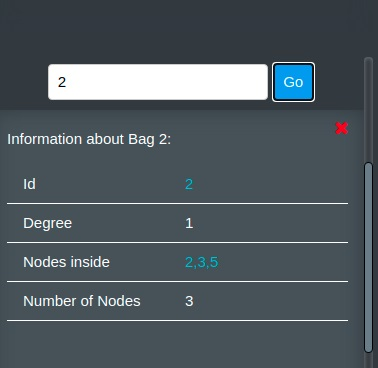
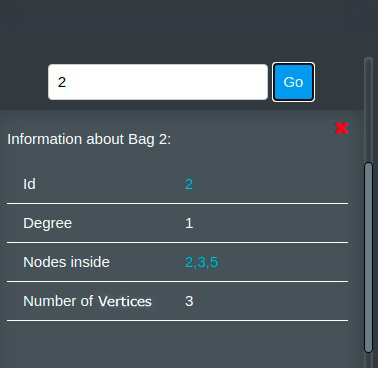
rechtschreibung

diff --git a/TreewidthVisualization/public/index.html b/TreewidthVisualization/public/index.html
@@ -175,7 +175,7 @@
                           <th></th>
                         </tr>
                         <tr>
-                            <td>Number of Vertice</td>
+                            <td>Number of Vertices</td>
                             <td>undefined</td>
                           </tr>
                         <tr>
@@ -183,11 +183,11 @@
                           <td>undefined</td>
                         </tr>
                         <tr>
-                            <td>Max Degree Vertice </td>
+                            <td>Max Degree Vertex </td>
                             <td>undefined</td>
                         </tr>
                         <tr>
-                            <td>Min Degree Vertice </td>
+                            <td>Min Degree Vertex </td>
                             <td>undefined</td>
                         </tr>
                         <tr>
@@ -201,7 +201,7 @@
                       </table>
                 </div>
                 <div class="line-s"></div>
-                <div data-wenk="Enter a displayed vertice" data-wenk-pos="top">
+                <div data-wenk="Enter a displayed vertex" data-wenk-pos="top">
                 <span class="example " style="padding-bottom:10px; " >
                    
                         <input id="graph-search" type="text" class="w3-input w3-round-medium w3-border " placeholder="Search.. ">
@@ -280,7 +280,7 @@
                             <td>undefined</td>
                           </tr>
                         <tr>
-                            <td>Number of different Nodes</td>
+                            <td>Number of different Vertices</td>
                             <td>undefined</td>
                           </tr>
                         <tr>
@@ -300,7 +300,7 @@
                             <td>undefined</td>
                         </tr>
                         <tr>
-                            <td>Single Nodes</td>
+                            <td>Single Vertices</td>
                             <td>undefined</td>
                         </tr>
                         <tr>
@@ -320,7 +320,7 @@
                 </div>
           
                 <div class="line-s"></div>
-                <div data-wenk="Enter a displayed node or bag number" data-wenk-pos="top">
+                <div data-wenk="Enter a displayed vertex or bag number" data-wenk-pos="top">
                     <span class="example"  style="padding-bottom:10px; " >
                     
                             <input id="tree-search" type="text" class="w3-input w3-round-medium w3-border " placeholder="Search.. ">
@@ -400,7 +400,7 @@
                 <span class="button-ico" style=" position: absolute; right:0;  bottom: 2.5em; margin-right: 15px; padding: 0;" >
                     <span id="recastOptions" style="display: none;" >
                         <button class="w3-button w3-round w3-blue" onclick="CytoscapeButtons.simpleNodeResetTreeLayout()">
-                            Nodes in Bag
+                            Vertices in Bag
                          </button>
                          <button class="w3-button w3-round w3-blue" onclick="CytoscapeButtons.fullResetTreeLayout()">
                             Recast Layout

diff --git a/TreewidthVisualization/public/javaScript/systemFunctions/accordionDropdown.js b/TreewidthVisualization/public/javaScript/systemFunctions/accordionDropdown.js
@@ -127,8 +127,8 @@ function setTreeProperties() {
     cr.endBatch();
 
     let treewidth = minBag.length;
-    bigBag = 'Id: '+ bigBagId + '</br> Nodes: ' + bigBag;
-    minBag = 'Id: '+ minBagId + '</br> Nodes:' + minBag;
+    bigBag = 'Id: '+ bigBagId + '</br> Vertices: ' + bigBag;
+    minBag = 'Id: '+ minBagId + '</br> Vertices:' + minBag;
     let singleNodes = cr.nodes('.tree').filter(function(ele, i, eles){
         return ele.neighborhood('node').length === 0; //return all nodes that have no neighboor
     });
@@ -144,8 +144,8 @@ function setTreeProperties() {
     rows[4].cells[1].innerHTML = nrVertices; //number vertice
     rows[5].cells[1].innerHTML = bigBag;
     rows[6].cells[1].innerHTML = minBag;
-    rows[7].cells[1].innerHTML = 'Degree: '+ maxDeg.degree + ' </br> Node: '+maxDeg.text +'</br> Id: '+ maxDeg.id;
-    rows[8].cells[1].innerHTML = 'Degree: '+ minDeg.degree + ' </br> Node: '+minDeg.text +'</br> Id: '+ minDeg.id;
+    rows[7].cells[1].innerHTML = 'Degree: '+ maxDeg.degree + ' </br> Vertices: '+maxDeg.text +'</br> Id: '+ maxDeg.id;//TODO
+    rows[8].cells[1].innerHTML = 'Degree: '+ minDeg.degree + ' </br> Vertices: '+minDeg.text +'</br> Id: '+ minDeg.id;//TODO
     rows[9].cells[1].innerHTML ='';
     rows[10].cells[1].innerHTML = treeClock;
     rows[11].cells[1].innerHTML = treeLayoutClock;
@@ -202,8 +202,8 @@ function setGraphProperties() {
     let rows = $('#graphProperties')[0].rows;
     rows[1].cells[1].innerHTML = cy.nodes().length; //number vertice
     rows[2].cells[1].innerHTML = cy.edges().length; //number edges
-    rows[3].cells[1].innerHTML = 'Degree: '+ maxDeg.degree + ' </br> Node: '+maxDeg.text +'</br> Id: '+ maxDeg.id;
-    rows[4].cells[1].innerHTML = 'Degree: '+ minDeg.degree + ' </br> Node: '+minDeg.text +'</br> Id: '+ minDeg.id;
+    rows[3].cells[1].innerHTML = 'Degree: '+ maxDeg.degree + ' </br> Vertex: '+maxDeg.text +'</br> Id: '+ maxDeg.id;
+    rows[4].cells[1].innerHTML = 'Degree: '+ minDeg.degree + ' </br> Vertex: '+minDeg.text +'</br> Id: '+ minDeg.id;
     rows[5].cells[1].innerHTML = graphClock;
     rows[6].cells[1].innerHTML = graphLayoutClock;
 }
@@ -221,7 +221,7 @@ function setLayoutTimeGraph(){
  * Creates dynamically the legend of nodes and egdes from the tree.
  */
 function setTreeLegend() {
-    createTableTree('node', 'List of Nodes');
+    createTableTree('node', 'List of Vertices');
     createTableTree('edge', 'List of Edges');
 }
 
@@ -455,7 +455,7 @@ function setBagTable(){
     headTable.innerHTML = 'Size';
     row.appendChild(headTable);
     headTable = document.createElement('th');
-    headTable.innerHTML = 'Nodes Inside';
+    headTable.innerHTML = 'Vertices Inside';
     row.appendChild(headTable);
 
     table.appendChild(row);

diff --git a/TreewidthVisualization/public/javaScript/systemFunctions/search.js b/TreewidthVisualization/public/javaScript/systemFunctions/search.js
@@ -61,7 +61,7 @@ class Search{
     
         let node = cy.nodes(`[id = "${input}"]`);
         if(node.length  === 0){
-            alertErr("No vertice was found by the given input: " +input);
+            alertErr("No vertex was found by the given input: " +input);
             return;
         }
 
@@ -106,18 +106,18 @@ class Search{
             let table = this.createBagTable(bag);
             div.appendChild(table);
         }if(nodeId.length > 0){ //if id of node from bag
-            this.createTitle(nodeId, 'Node', div);
+            this.createTitle(nodeId, 'Vertex', div);
             let table = this.createNodeTableTree(nodeId);
             div.appendChild(table);
         }if(nodeDisplayedText.length > 0){//displayed node text
             if(nodeDisplayedText.length === 1)
-                this.createTitleDisplayedText(nodeDisplayedText, 'Nodes with Value', div);
-            else this.createTitleDisplayedText(nodeDisplayedText[0], 'Nodes with Value', div);
+                this.createTitleDisplayedText(nodeDisplayedText, 'Vertices with Value', div);
+            else this.createTitleDisplayedText(nodeDisplayedText[0], 'Vertices with Value', div);
             let table = this.createNodeTableTree(nodeDisplayedText);
             div.appendChild(table);
 
         }if(nodeDisplayedText.length === 0 && bag.length === 0 && nodeId.length === 0){ //nothing found
-            alertErr("No Bag or Node was found by the given input: " +input);
+            alertErr("No Bag or Vertex was found by the given input: " +input);
             return;
         }
         $('#tree')[0].appendChild(div);
@@ -221,15 +221,15 @@ class Search{
         cr.startBatch();
             let nodes = cr.nodes('.tree').filter(`[bag = "${node.id()}"]`);
         cr.endBatch();
-        console.log("nodes batch ", nodes, " in inner ")
+        //console.log("nodes batch ", nodes, " in inner ");
         this.createRow('Degree', degree+add, table);
 
         let td = document.createElement('td');
         td = document.createElement('td');
         pTreeHTMLCell(td, nodes);
-        this.createRowAppend('Nodes inside', td , table);
+        this.createRowAppend('Vertices inside', td , table);
 
-        this.createRow('Number of Nodes', mapBagInformation.get(node.id()).totalNumber, table);
+        this.createRow('Number of Vertices', mapBagInformation.get(node.id()).totalNumber, table);
         return table;
     }
     
@@ -276,7 +276,7 @@ class Search{
 
         td.innerHTML = first;
         row.appendChild(td);
-        console.log("vor cell", cell)
+        //console.log("vor cell", cell)
         row.appendChild(cell);
         table.appendChild(row);
         return table;

diff --git a/TreewidthVisualization/public/www/tutorial.html b/TreewidthVisualization/public/www/tutorial.html
@@ -76,16 +76,18 @@
                     e 7 8
                 </textarea>
             </br>
+                                
                 This is the same graph also above in .gr. In this case, the line starts also with p which contains important information.
                 The first value 8 after edges, stands for the number of vertices in the graph
                 which is followed by the number of edges.
                 Each edge is defined by 2 vertices in one line which begins with the character e in the line.
+
             </div>
      
         </div>
         <div class="license">
             <h4> Upload two file:</h4>
-            One file must be from the .gr or dgf format and the other one in the .td format. This option can be used if you already have used a pace algorithm on your own computer.
+            One file must be from the .gr or dgf format and the other one in the .td format. This option can be used if you already have used a PACE algorithm on your own computer.
         </div>
 
         <div class="license " style=margin-top:3em>
@@ -114,13 +116,13 @@
     
             <div class="midC">
                 <h4>Select a lot of Elements</h4>
-                Press shift so select a specific amount of elements to move them.
+                Press shift to select a specific amount of elements to move them.
                 <img src = "pictures/shift-select.png" alt="picure select elements" width="30%" height="30%">
             </div>
     
             <div class="midC">
-                <h4>Select a Node for Value-Path in Tree</h4>
-                Select a node inside the tree to see the connected path.
+                <h4>Select a Vertex for Value-Path in Tree</h4>
+                Select a vertex inside the tree to see the connected path.
                 <img src = "pictures/path.jpg" alt="picure select elements" width="40%" height="40%">
             </div>
 

diff --git a/TreewidthVisualization/public/javaScript/graphFunctions/tapFunctions.js b/TreewidthVisualization/public/javaScript/graphFunctions/tapFunctions.js
@@ -47,7 +47,7 @@
  cy.on('tap', 'node', function(evt) {
      if(checkArea(evt))
              return
-     $('#select').html("Selected Vertice: ");
+     $('#select').html("Selected Vertex: ");
      let text = evt.target.data('displayedText');
      $('#badge-node').html(text);
      $('#badge-id').html(evt.target.id());
@@ -216,7 +216,7 @@
      if(checkArea(evt))
          return;
      let text = evt.target.data('displayedText');
-     $('#select').html("Selected Node: ");
+     $('#select').html("Selected Vertex: ");
      $('#badge-node').html(text);
      $('#badge-id').html(evt.target.id());
  

diff --git a/TreewidthVisualization/public/javaScript/import-converter/fileInput.js b/TreewidthVisualization/public/javaScript/import-converter/fileInput.js
@@ -73,7 +73,7 @@
             .then(body => {
                 //on error no body is created
                 if(body === null || body.length === 0 || body === ""){
-                    alertErr("Server could not create data");
+                    alertErr("Server could not create data.");
                     onSet = 0; 
                     spinner.close();
                     return;

diff --git a/TreewidthVisualization/public/javaScript/systemFunctions/cytoscapeButtons.js b/TreewidthVisualization/public/javaScript/systemFunctions/cytoscapeButtons.js
@@ -208,7 +208,7 @@
      */
     static resetView(cytoscape) {
         if(cytoscape !== 'cr' && cytoscape !==  'cy'){
-            console.log("resetView was not cr or  cy ", cytoscape);
+           // console.log("resetView was not cr or  cy ", cytoscape);
             return;
         }
            
